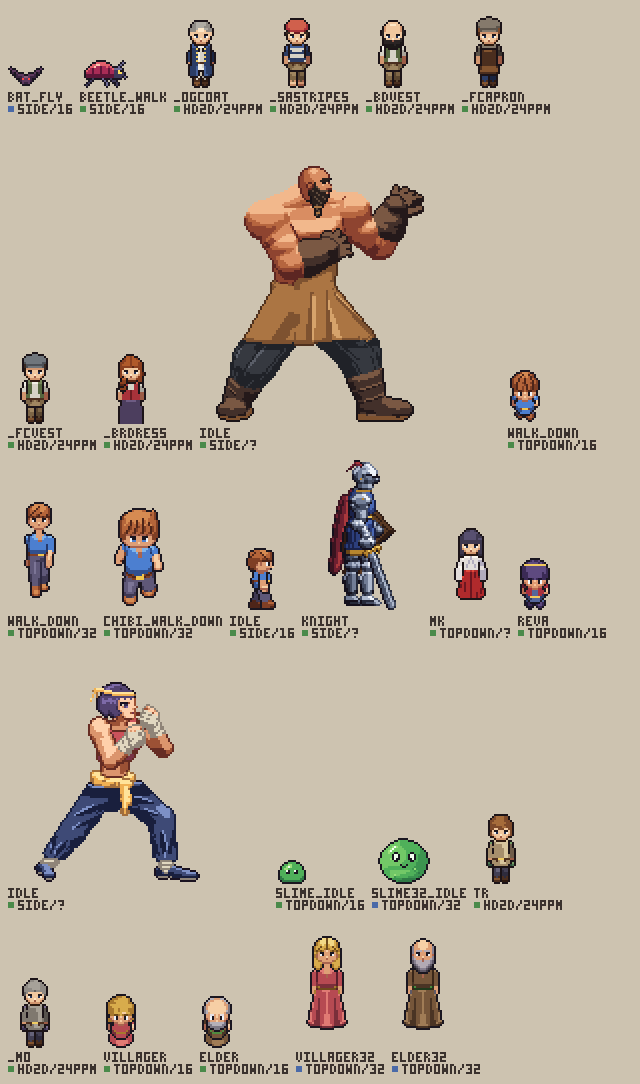
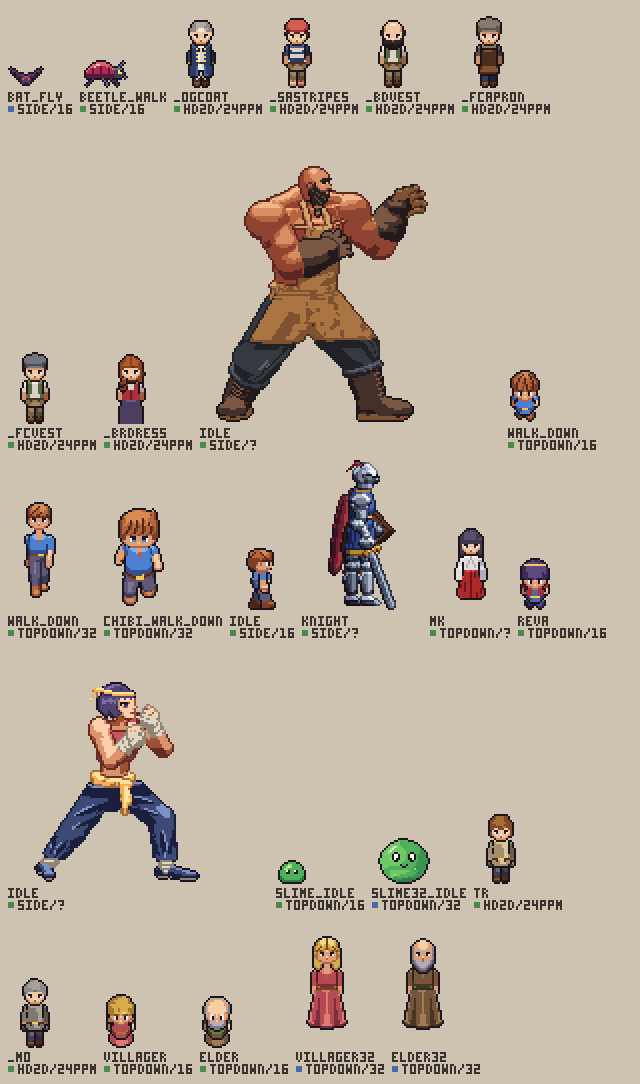
Haldor: a smith's apron, heavy trousers and laced boots, his chest and belly in volume, his far palm to us
His clothes from the 3D heavies' models, the 2D grapplers and how a smith's apron is built: a narrow bib to the
breastbone on straps round his neck, the skirt only in front and split, tied at the hip; trousers in a few big folds
that follow the weight and bloused over laced work boots. His skin cut a step up so the shadow is the widest share and
the light sits on top of each mass, the pecs, the obliques and the belly as forms on his rig. The far hand turns its
palm to us, in a raw-leather palm, with a wrist twist as a fourth number of the pose's fingers. The skin's outer line
runs all round again; only the lines inside one mass stay out.

Changed region(s): [[0.3438, 0.1522, 0.5938, 0.3653], [0.5938, 0.1522, 0.6875, 0.2131], [0.5312, 0.3349, 0.625, 0.3958]]

diff --git a/lib/characters/haldor_fighter.px.js b/lib/characters/haldor_fighter.px.js
@@ -1,23 +1,25 @@
 // Haldor the smith, fighting's heavy (lib/profiles/fighting.px.js): an original big grappler seen from the side, 140 px
 // standing and 126-130 in his guard, Reva's opponent (reva_fighter.px.js) in the same school (the library's study of the
 // heavies, section 13 of its fighting study, measured for numbers only, never their pixels): bald, a braided black
-// beard, a tan leather apron hung from his waist to above his knees (its bib up to his chest) over charcoal trousers,
-// leather gauntlets over his forearms and hands, heavy boots; bare shoulders and arms; 7.8 heads, his head the size of
+// beard, a smith's tan leather apron over his front (a narrow bib up to his breastbone on a strap round his neck, tied
+// at the waist, split up to the fork, to above his knees) over charcoal trousers bloused over laced work boots, leather
+// gauntlets over his forearms and hands; bare shoulders and arms; 7.8 heads, his head the size of
 // hers on a body 1.27 times her height, the neck hidden under the trapezius. His body built as the heavies' 3D models
 // are (13.9: a barrel trunk as deep at the belly as at the chest, the trapezius up to the jaw, deltoids 3.6 heads
 // across, thick arms and thighs), turned to the camera as the games turn a heavy, his guard and idle as big men stand
 // and breathe (13.10). Made as she is: in 3D on his rig (rig3d(), one heading), painted as Guilty Gear Xrd paints a
 // model for its one camera (each material a ramp cut where its terminator falls, his muscle by design as the heavies
 // are painted: the shadow the biggest share of the skin, a cut, a small light on top of each mass, a crease only where
-// masses part, a line between parts only at a real depth break, none on the skin's lit side), a cleanup by rule over
+// masses part, a line between parts only at a real depth break, the outer line all round; his chest's masses and
+// his clothes as the heavies' 3D models and 2D sprites build them, section 13.14), a cleanup by rule over
 // each frame; his hands modeled on his rig (fingers bent at their knuckles, an opposed thumb: the pose's `fingers`
 // give each its shape), his head drawn by hand near profile and stamped at its joint, between the body and the near arm
 // (section 13.11: the heavies' heads, hands and feet). 18 colors; a line by material, black on the beard and the boots
 // (the genre's ink). His guard a grappler's low and wide (13.12: the 2D grapplers' guards by kind): the thighs spread
 // over bent knees, the weight between the feet, the lead foot in profile at her, the rear foot turned to the camera
 // with its knee (the boots' soles flat on one row), the trunk near upright; both hands open claws ready to grab (13.13:
-// the lead at his chin a forearm ahead of his chest, the near one before his belly, the palms down and away from us,
-// the backs of the hands to the camera, the fingers spread and curled at her). Idle (8 x 150 ms: the shoulders up 6 px
+// the lead at his chin a forearm ahead of his chest, its palm turned to us and to her, the fingers at her; the near one
+// before his belly, its back to us, the palm down and away; the fingers spread and curled). Idle (8 x 150 ms: the shoulders up 6 px
 // over knees that give 1, the head sinking into them, the hands two drawings late, up, out and closing a little) facing
 // e, the game flips him for w. Each frame's hurt boxes (head, body, legs) from his joints and its data { phase }; 3 palette
 // slots (base, ash, moss: 12 keys swapped) on the sheet haldor_fighter.
@@ -69,14 +71,17 @@ const BODY = { h: F.scale.heavy[0], heads: 7.8, hip: 67, thigh: 33, shin: 28, an
 // grab (13.13: the 2D grapplers' claws), on the floor's axes ([ahead, away, up] px from each shoulder): the lead (far)
 // hand at his chin (0.87 of his guard, theirs 0.83-0.91), the near one before his belly (0.68, theirs 0.61-0.72), both a
 // forearm ahead of the body, the elbows bent and carried out from it (the near arm is drawn over the head, and stays
-// clear of the face). `fingers` each hand's shape as numbers ([curl, roll, bend], arm by arm as `hands`): HAND's curl,
-// degrees its fingers bend at their knuckles (open, the claw, half closed, a grip; the more open, the wider they fan);
-// the hand rolled round the forearm, degrees (0 its palm toward her or down and its edge to the camera, above 0 its back
-// turned to us); bent at the wrist, degrees (below 0 its fingers toward its palm). Both an open claw, the back to us as
-// the 2D grapplers draw theirs, the palm down and away (never to us: a palm to us reads "stop"), the fingers at her
+// clear of the face). `fingers` each hand's shape as numbers ([curl, roll, bend, swing], arm by arm as `hands`): HAND's
+// curl, degrees its fingers bend at their knuckles (open, the claw, half closed, a grip; the more open, the wider they
+// fan); the hand rolled round the forearm, degrees (0 its palm toward her or down and its edge to the camera, above 0
+// its back turned to us, below 0 its palm); bent at the wrist, degrees (below 0 its fingers toward its palm); swung at
+// the wrist in the palm's plane, degrees (above 0 toward its little finger). The near hand an open claw, its back to us
+// as the 2D grapplers draw theirs, the palm down and away; the far one, at his chin, its palm turned to us and a little
+// to her (rolled -70), its fingers swung 45 off his steep forearm so they point at her, 25 degrees up, and curled a
+// little less, so they part: a claw seen from its palm side, reaching (a palm to us with the fingers up reads "stop")
 const HAND = { open: 0, claw: 35, half: 55, grip: 90 }
 const STANCE = { turn: -45, twist: 20, lean: 6, down: 10, rise: 0, breath: 0, feet: [[36, 0], [-32, 10]], way: [100, 190], hands: [[28, 4, 4], [32, -2, -16]], elbow: [0.2, 1, -1],
-  fingers: [[HAND.claw, 65, -30], [HAND.claw, 60, -10]] }
+  fingers: [[HAND.claw - 10, -70, 0, 45], [HAND.claw, 60, -10]] }
 // (a pose's hands turned from the floor's axes into the shoulders' frame; its feet from the floor into the hips')
 const posed = (o) => { const q = { ...STANCE, ...o }, h = 180 + q.turn, t = (h + q.twist) * RAD
   return { ...q, head: 130 - (h + q.twist), feet: q.feet.map((f) => hipsFloor(f, q.turn)), toes: [h - q.way[0], q.way[1] - h],
@@ -90,21 +95,26 @@ const posed = (o) => { const q = { ...STANCE, ...o }, h = 180 + q.turn, t = (h +
 const BREATH = [0, 0.3, 0.7, 1, 1, 0.75, 0.4, 0.1], LAG = 2
 const idle = (i) => { const b = BREATH[i], l = BREATH[(i + 8 - LAG) % 8]
   return posed({ phase: "idle", breath: b, rise: 5 * b, down: STANCE.down - b, hands: STANCE.hands.map(([e, a, u]) => [e + 1.5 * l, a, u + 3 * l]),
-    fingers: STANCE.fingers.map(([c, r, w]) => [c + 12 * l, r, w]) }) }
+    fingers: STANCE.fingers.map(([c, ...turns]) => [c + 12 * l, ...turns]) }) }
 const MOVES = { idle: { pose: idle, ms: BREATH.map(() => 150) } }
 const W = 150, H = 150, PIV = [50, 146], PITCH = F.camera.pitch
 
 // ---------------------------------------------------------------- the tones (fighter.toonOf: Xrd's threshold)
 // His materials, each [its line, its fills dark to light, the cuts between them]: skin S s m z Z (S its crease tone,
 // only a crease reaches it; the shadow s the widest band and the light Z the narrowest, as 13.8 found the heavies'),
-// apron A a c l, gauntlets E e g, boots E e g (black line), trousers N n i, the soles a; the beard is the head's (by hand)
+// apron A a c l (its straps and ties too, and the gauntlets' palms), gauntlets E e g, boots E e g (black line),
+// trousers N n i, the soles a; the beard is the head's (by hand)
 const TONE = { skin: ["S", "SsmzZ", [0.08, 0.52, 0.68, 0.91]], apron: ["A", "acl", [0.42, 0.84]], glove: ["E", "Eeg", [0.25, 0.55]],
-  boot: ["k", "Eeg", [0.3, 0.78]], tr: ["N", "Nni", [0.4, 0.86]], sole: ["k", "a", []], strap: ["A", "a", []] }
+  boot: ["k", "Eeg", [0.3, 0.78]], tr: ["N", "Nni", [0.4, 0.86]], sole: ["k", "a", []] }
 const toon = fighter.toonOf(TONE, "S")
 // a material with its bias: the place's own, a shadow cast on it, a crease (deep), a light (shine, below 0)
 const T = (m, base, cast = 0, occ = 0, shine = 0) => toon(m, base + cast + shine, occ)
 // (each mass of skin lit on its top and in shadow under it, as the heavies' muscle is painted: what faces down a step darker)
 const U = (n) => (n[2] < -0.15 ? 0.22 : 0)
+// bare skin as the heavies' is painted (13.8, 13.14): its cuts a step up, so a plane facing ahead falls in the shadow,
+// the widest share; the light only where a form turns up to it (z), a small shine at its crown (Z), inside its edge (where
+// the form still faces the camera: the edge stays a line by material, 13.8); `bias`, `cast` and `deep` as T's
+const skin = (n, bias = 0, cast = 0, deep = 0) => T("skin", 0.2 + U(n) + bias, cast, deep, n[2] > 0.78 && n[2] * 0.17 - n[1] * 0.98 > 0.3 ? -0.4 : n[2] > 0.4 ? -0.12 : 0)
 // a table of [h, value] read at h (linear between its rows)
 const lerp = (rows, h) => { let k = 1; while (k < rows.length - 1 && h > rows[k][0]) k++
   const [h0, v0] = rows[k - 1], [h1, v1] = rows[k]; return v0 + (v1 - v0) * clamp((h - h0) / (h1 - h0)) }
@@ -123,7 +133,9 @@ const BACK = [[0, 12.5], [0.25, 11], [0.45, 11.5], [0.62, 12.5], [0.75, 13], [0.
 // the index 0.45, the ring 0.47, the little 0.33), each in three bones bent at its knuckles toward the palm by `curl`
 // degrees (the middle knuckle the most) and fanned apart, the more the more open (a claw 1.5 times a grip's 28 degrees,
 // as the 2D heavies spread theirs), 2 px thick so a px parts them; the thumb from the palm's side by the wrist, out and
-// forward, opposed (its tip 0.8 of the hand from the wrist); in the gauntlet's leather
+// forward, opposed (its tip 0.8 of the hand from the wrist); in the gauntlet's leather, its back dark, the palm side a
+// patch of the apron's lighter leather (a smith's gauntlet's palm, worn rough), its hollow in shadow (13.14: a dark
+// glove seen from its palm reads as a lump; the lighter palm round a dark hollow reads as a cupped hand)
 const handOf = (fb, curl, side = 1) => {
   const finger = (x, ln, fan) => { x *= side; fan *= side; const segs = [0.45, 0.3, 0.25].map((s) => s * ln), bend = [0.6, 1, 0.7].map((s) => s * curl * RAD)
     let p = [x, 8.2, 0.4], a = 0; const caps = []
@@ -134,69 +146,97 @@ const handOf = (fb, curl, side = 1) => {
   const t0 = [5 * side, 1.6, -1.2], t1 = add(t0, mul(unit([0.6 * side, 0.7, -0.45]), 5.4)), t2 = add(t1, mul(unit([0.15 * side, 0.9, -0.5 - curl / 120]), 4.4))
   const thumb = sdf.union(sdf.capsule(t0, t1, 1.7, 1.4), sdf.capsule(t1, t2, 1.35, 1.1), { smooth: 0.4 })
   return sdf.union(sdf.box([12, 8.6, 4.6], { round: 2 }).at(0, 4.6, 0), ...fingers, thumb, { smooth: 0.7 })
-    .paint((q, n) => T("glove", fb + 0.22 + (n[2] < -0.4 ? 0.3 : 0), 0, 0, n[2] > 0.3 ? -0.45 : 0)).part("hand") }
+    .paint((q, n) => { const palm = n[2] < -0.3, hollow = palm && Math.abs(q[0]) < 3.5 && q[1] > 2 && q[1] < 8.5
+      return palm && !hollow ? T("apron", fb + 0.3) : T("glove", fb + 0.22 + (hollow ? 0.3 : 0), 0, 0, n[2] > 0.3 ? -0.45 : 0) }).part("hand") }
 
 // the figure below the head, part by part, for a frame's joints
 const parts = (j, p = {}) => {
   const out = {}, twist = Math.atan2(dot(j.sh.f, j.r), dot(j.sh.f, j.f)), near = j.depth(j.legs[1].hip) > j.depth(j.legs[0].hip) ? 1 : 0, na = nearArm(j) === "arm1" ? 1 : 0, b = p.breath ?? 0
   const armB = j.arms.map((A) => [[A.sh, A.elbow, 8.4, 7.2], [A.elbow, A.hand, 7.6, 6.4], [A.hand, A.hand, 8, 8]])
   const legB = j.legs.map((L) => [[L.hip, L.knee, 12.5, 10.5], [L.knee, L.ankle, 10.5, 9]])
-  // the trunk: a barrel swept up his spine (SIDE, FRONT, BACK), the chest swelling 1 px on a breath; its angle round
-  // turned from the hips' way at its foot to the shoulders' at its top; the pecs a mass ahead, a crescent of shadow
-  // under them, a crease only at its deepest, short, by the middle (13.8: a crease only where masses part deep: under
-  // the pec, the armpit; the muscle by tone, each mass lit on top and in shadow under it); the belly in two columns of
-  // blocks under them, each a step darker under its lit top; the side the camera sees a mid tone, the back in shadow;
-  // the armpit a short crease where each upper arm leaves the trunk
+  // the trunk: a barrel swept up his spine (SIDE, FRONT, BACK), the chest swelling 1 px on a breath, the belly a dome low
+  // ahead of it (13.9: as far forward as the chest); its angle round turned from the hips' way at its foot to the
+  // shoulders' at its top. On it his muscle as masses, as the heavies' 3D trunks are built and read at his size (the
+  // study's 13.14): each pec a slab across the chest's top, its lower edge standing 3 px off the ribcage, so it faces
+  // down and falls in shadow over a crease, short, by the middle (13.8: a crease only where masses part deep: under the
+  // pec, the armpit); under each pec on the side the ribcage's serratus, three small bumps; the obliques' rolls over
+  // the hips, over the apron's top. Lit as the heavies are painted (13.8, 13.14): the shadow the widest share (the
+  // trunk's cuts a step up, so a plane facing ahead falls in it), a sharp cut, the light only where a mass turns up to
+  // it, a small shine at its crown; the back in shadow, the side the camera sees a step lighter; the armpit a short
+  // crease where each upper arm leaves the trunk
   const z0 = j.pelvis[2] - 2, top = j.chest[2] + 4, lean = sub(j.chest, j.pelvis), hips = [j.pelvis[0], j.pelvis[1], 0]
   const along = (h) => { const t = (z0 + h * (top - z0) - j.pelvis[2]) / lean[2]; return [lean[0] * Math.max(0, t), lean[1] * Math.max(0, t)] }
   const ahead = (h, a) => a - twist * smooth(0.25, 0.8, h)
   const R = (h, a) => { const c = Math.cos(ahead(h, a)), s = Math.sin(ahead(h, a)), side = lerp(SIDE, h), ax = c >= 0 ? lerp(FRONT, h) + b * 0.8 * smooth(0.5, 0.75, h) : lerp(BACK, h)
-    return 1 / Math.sqrt((c * c) / (ax * ax) + (s * s) / (side * side)) + 2.6 * Math.exp(-(((h - 0.8) / 0.1) ** 2)) * Math.max(0, Math.abs(c) > 0.25 ? c : 0) ** 2 }
-  const PEC = 0.7
+    return 1 / Math.sqrt((c * c) / (ax * ax) + (s * s) / (side * side)) + 2 * Math.exp(-(((h - 0.38) / 0.16) ** 2)) * Math.max(0, c) ** 2 }
   const trunk = j.sweep(hips, z0, top, R, { shift: along }), lerp3 = (a, c, t) => add(a, mul(sub(c, a), t))
-  const pits = j.arms.map((A) => [lerp3(A.sh, A.elbow, 0.2), lerp3(A.sh, A.elbow, 0.45), 8.2, 7.9])
-  const torso = trunk.field.paint((q, n) => { const [h, a] = trunk.at(q), c = ahead(h, a), ac = Math.abs(c)
-    const pec = ac < 1.2 && h > PEC - 0.05 && h < PEC + 0.02, abs = ac < 0.6 && h > 0.3 && h < PEC - 0.07 && (ac < 0.06 || band(h * 52, 5, 4.4, 0.6)), side = ac > 0.95 && ac < 2.1
-    return T("skin", U(n) + (ac > 2.4 ? 0.18 : 0) + (h < PEC ? 0.08 : 0) + (pec ? 0.4 : 0) + (abs ? 0.3 : 0), 0.4 * shadowed(q, armB.flat()), (pec && ac > 0.12 && ac < 0.45 ? 0.5 : 0) + 0.45 * nearOf(q, pits, 2),
-      (h > PEC + 0.08 && h < 0.92 && ac < 1 && n[2] > 0.15 ? -0.3 : 0) + (side ? -0.15 : 0)) })
+  // (a point on the barrel at height h, ac round from the chest's front, `o` px out, and the way out there)
+  const onBarrel = (h, ac, o = 0) => { const a = ac + twist * smooth(0.25, 0.8, h), s = along(h), d = add(mul(j.f, Math.cos(a)), mul(j.r, Math.sin(a)))
+    return [add([hips[0] + s[0], hips[1] + s[1], z0 + h * (top - z0)], mul(d, R(h, a) + o)), d] }
+  const mass = (h, ac, o, r) => { const [c, d] = onBarrel(h, ac, o); return aimed(sdf.ellipsoid(r), d, c) }
+  const PECS = [-1, 1].map((s) => mass(0.8, 0.45 * s, -2.4, [9.5, 5, 6.5]))
+  const body = sdf.union(trunk.field, ...PECS, ...[-1, 1].flatMap((s) => [mass(0.4, 1.3 * s, -2.2, [5, 3.6, 7.5]), ...[0.6, 0.655, 0.71].map((h, k) => mass(h, (1.12 + 0.04 * k) * s, -1, [2.6, 1.8, 2]))]), { smooth: 1 })
+  const pits = j.arms.map((A) => [lerp3(A.sh, A.elbow, 0.2), lerp3(A.sh, A.elbow, 0.45), 8.2, 7.9]), pecZ = onBarrel(0.8, 0)[0][2]
+  const torso = body.paint((q, n) => { const [h, a] = trunk.at(q), ac = Math.abs(ahead(h, a)), pd = Math.min(...PECS.map((P) => P.dist(q)))
+    const under = pd > 0.1 && pd < 1.4 && q[2] < pecZ - 3 && ac < 0.5
+    return skin(n, (ac > 2.4 ? 0.18 : 0) + (ac > 0.95 && ac < 2.1 ? -0.1 : 0), 0.4 * shadowed(q, armB.flat()), (under ? 0.5 : 0) + 0.45 * nearOf(q, pits, 2)) })
   // the trapezius (13.9: the heavies' rises half-way out to their chin, 10-13 px over the shoulders' joints, the neck
   // hidden in it): a wedge from round the head's foot out to each shoulder, swelling 1 px with the breath; lit on its
   // top, the back of it in shadow; one mass with the trunk (one part: no line between them)
   const neck = add(j.chest, [0, 0, 7]), back = mul(j.sh.f, -2)
-  const traps = sdf.union(sdf.ellipsoid([8, 7, 8 + b]).at(...add(neck, add(back, [0, 0, -1]))), ...j.arms.map((A) => sdf.capsule(add(neck, back), add(A.sh, [0, 0, 3.5]), 6.4 + 0.6 * b, 5.6)), { smooth: 2.5 })
-    .paint((q, n) => T("skin", U(n) + 0.1, 0.4 * shadowed(q, armB.flat()), 0, n[2] > 0.55 ? -0.3 : 0))
+  const trapF = sdf.union(sdf.ellipsoid([8, 7, 8 + b]).at(...add(neck, add(back, [0, 0, -1]))), ...j.arms.map((A) => sdf.capsule(add(neck, back), add(A.sh, [0, 0, 3.5]), 6.4 + 0.6 * b, 5.6)), { smooth: 2.5 })
+  const traps = trapF.paint((q, n) => skin(n, 0.1, 0.4 * shadowed(q, armB.flat())))
   out.torso = sdf.union(torso, traps, { smooth: 1 })
-  // the apron: leather from his waist over his thighs to above his knees (a skirt that follows each thigh's front, the
-  // near one leading, so the stance reads under it), with its bib over the barrel to under the pecs; a shell 1.4 px
-  // thick; the bib's top edge lit, its sides turning away into shadow; on each thigh two folds down from the waist
-  // (a groove a step darker, a lit ridge beside it), its hem a step darker; the arms' and the near thigh's shadows; a
-  // strap from each corner of the bib up round his neck, the ties round his waist
-  const waist = z0 + 0.25 * (top - z0), bib = z0 + (PEC - 0.04) * (top - z0), hw = 0.25
-  const BIB = j.sweep(hips, waist - 2, bib, (h, a) => R(hw + h * (PEC - 0.04 - hw), a) + 1.2, { keep: (h, a) => Math.abs(ahead(0.5, a)) < 0.9 - 0.15 * h, shell: 0.7, shift: (h) => along(hw + h * (PEC - 0.04 - hw)) })
-  // (the skirt a curtain hung from the waist to above the knees, flaring a px as it falls, the thighs pushing it out
-  // where they come forward; its hem level)
-  const hemZ = Math.max(...j.legs.map((L) => L.knee[2])) + 7
-  const SEAT = j.sweep(hips, hemZ, waist, (h, a) => R(hw, a) + 1.4 + (1 - h) * 1.2, { keep: (h, a) => Math.abs(ahead(hw, a)) < 1 - 0.1 * h, shell: 0.7, shift: () => along(hw) })
+  // the apron, a smith's (13.14, read in photographs of smiths and farriers at work): heavy leather over his front only,
+  // hung from the neck by a strap and tied round the waist. Its bib narrow (the width between the nipples), from the
+  // waist up to his breastbone between the pecs, lying 1.2 px off the body (on the pecs' inner edges and the belly's
+  // dome), its top edge lit; a strap from each top corner over the trapezius round his neck; the ties round the waist
+  // to a knot at his near hip, two ends hanging from it; the skirt split up to the fork, each half over its thigh's
+  // front to above the knee (a farrier's), so the stance reads and the trousers show behind and between them. Stiff:
+  // no fold but where the waist gathers it, two short creases across the hips; its hem a step darker (the cut edge),
+  // scorch marks a step darker on its front (the forge's sparks); the arms' shadows and the near thigh's on it
+  const waist = z0 + 0.25 * (top - z0), hw = 0.25, BIB = { top: 0.86, half: [[0.25, 0.95], [0.6, 0.62], [0.86, 0.34]] }, SPLIT = true
+  const bibZ = z0 + BIB.top * (top - z0), torsoF = sdf.union(body, trapF, { smooth: 1 })
+  const bibF = sdf.field((x, y, z) => { const q = [x, y, z], d = Math.abs(torsoF.dist(q) - 1.2) - 0.7, cap = Math.max(waist - 2 - z, z - bibZ)
+    if (cap > 0) return Math.max(d, cap)
+    const [h, a] = trunk.at(q); return Math.abs(ahead(h, a)) > lerp(BIB.half, h) ? Math.max(d, 0.3) : d }, [hips[0] - 34, hips[1] - 34, waist - 3], [hips[0] + 34, hips[1] + 34, bibZ + 1])
+  // (a curtain hung from the waist to above the knees, flaring a px as it falls, pushed out by each thigh's front where
+  // it comes forward; split: under the fork, where it spans from one thigh to the other, cut away)
+  const hemZ = Math.max(...j.legs.map((L) => L.knee[2])) + 7, forkZ = j.pelvis[2] - 6
+  const SEAT0 = j.sweep(hips, hemZ, waist, (h, a) => R(hw, a) + 1.4 + (1 - h) * 1.2, { keep: (h, a) => Math.abs(ahead(hw, a)) < 0.6 - 0.1 * h, shell: 0.7, shift: () => along(hw) })
+  const SEAT = { field: SPLIT ? SEAT0.field.subtract(sdf.plane([0, 0, 1], forkZ).subtract(...j.legs.map((L) => sdf.capsule(L.hip, L.knee, 16.5, 13.5)))) : SEAT0.field }
   const thighs = j.legs.map((L) => { const u = unit(sub(L.knee, L.hip)), f = unit(sub(j.f, mul(u, dot(j.f, u))))
-    return sdf.capsule(L.hip, L.knee, 14.4, 11.4).subtract(sdf.capsule(L.hip, L.knee, 13, 10)).intersect(sdf.plane(mul(f, -1), -dot(f, L.hip) + 3), sdf.plane([0, 0, -1], -hemZ)) })
+    return sdf.capsule(L.hip, L.knee, 14.4, 11.4).subtract(sdf.capsule(L.hip, L.knee, 13, 10)).intersect(sdf.plane(mul(f, -1), -dot(f, L.hip) - 1), sdf.plane([0, 0, -1], -hemZ)) })
   const skirt = sdf.union(SEAT.field, ...thighs, { smooth: 1.6 }), hem = (q) => q[2] - hemZ
-  out.apron = sdf.union(BIB.field, skirt, { smooth: 1 }).paint((q, n) => { const lg = j.legs.map((L) => capD(q, [L.hip, L.knee, 14.4, 11.4]) < 1.2), on = lg[1 - near] ? 1 - near : lg[near] ? near : -1
-    const v = sub(q, j.pelvis), ang = Math.atan2(dot(v, j.r), dot(v, j.f)), drop = clamp((waist - q[2]) / (waist - hemZ)), at = (f) => f * (1 + 0.3 * drop), w = 0.035 + 0.06 * drop
-    const groove = q[2] < waist - 2 && [-0.6, -0.1, 0.45].some((f) => Math.abs(ang - at(f)) < w), ridge = q[2] < waist - 4 && [-0.6, -0.1, 0.45].some((f) => Math.abs(ang - at(f) + w + 0.05) < 0.045)
-    const far = on >= 0 && on !== near ? 0.1 : 0, edge = hem(q) < 1.4 ? 0.3 : 0, turn = Math.abs(ahead(hw, ang)) > 0.8 ? 0.22 : 0
-    const shade = 0.4 * shadowed(q, armB.flat()) + 0.3 * shadowed(q, [legB[near][0]], 8)
-    return T("apron", far + edge + turn + (groove ? 0.4 : 0), shade, 0, (q[2] > bib - 1.6 && n[2] > -0.2) || ridge ? -0.32 : 0) })
-  const corner = (s) => add([j.pelvis[0], j.pelvis[1], bib], add(along(PEC - 0.04).concat(0), add(mul(j.sh.r, 10 * s), mul(j.sh.f, 13))))
-  out.straps = j.arms.map((A, i) => { const s = i ? 1 : -1; return sdf.capsule(corner(s), add(neck, mul(j.sh.r, 6 * s)), 1.1).paint(() => T("strap", 0)) })
-  out.ties = j.sweep(hips, waist - 1.2, waist + 1.2, (h, a) => R(hw, a) + 1, { keep: (h, a) => Math.abs(ahead(hw, a)) > 1.15, shift: () => along(hw) }).field.paint(() => T("strap", 0))
-  // the trousers: each leg a thick thigh and calf (13.9: the heavies' 20-25 px round) and a shin, the seat round his hips, into
-  // the boots below the knee; the side away and the inner thigh in shadow, the apron's hem's shadow under it, the near
-  // leg's on the far; two long folds down each, a lit ridge beside each
-  const legs = j.legs.map((L, i) => { const far = i !== near, lb = far ? 0.08 : 0, inner = mul(j.r, i ? -1 : 1), bootTop = add(L.ankle, mul(unit(sub(L.knee, L.ankle)), 15))
-    const sh = (q) => (hem(q) > -4 && hem(q) < 0 ? 0.3 : 0) + (far ? 0.3 * shadowed(q, legB[near], 10) : 0)
-    const paint = (t, a, q) => T("tr", lb + (Math.abs(a) > 2.2 ? 0.22 : a > 1 ? 0.14 : 0) + (band(a * 7 + t * 2, 6.3, 1.2, 0.45) ? 0.4 : band(a * 7 + t * 2, 6.3, 2.1, 0.4) ? -0.3 : 0), sh(q))
+  out.apron = sdf.union(bibF, skirt, { smooth: 1 }).paint((q, n) => { const lg = j.legs.map((L) => capD(q, [L.hip, L.knee, 14.4, 11.4]) < 1.2), on = lg[1 - near] ? 1 - near : lg[near] ? near : -1
+    const v = sub(q, j.pelvis), ang = Math.atan2(dot(v, j.r), dot(v, j.f)), front = Math.abs(ahead(hw, ang)) < 0.8
+    const far = on >= 0 && on !== near ? 0.1 : 0, edge = hem(q) < 1.4 ? 0.3 : 0, turn = front ? 0 : 0.22, gathered = v[2] < waist - j.pelvis[2] - 1 && v[2] > waist - j.pelvis[2] - 6 && band(v[2], 2.4, 0.6, 0.5)
+    const scorch = front && sdf.fbm(v[0] / 3.5, v[1] / 3.5, v[2] / 3.5, 7, 2) > 0.68, shade = 0.4 * shadowed(q, armB.flat()) + 0.3 * shadowed(q, [legB[near][0]], 8)
+    return T("apron", far + edge + turn + (gathered ? 0.4 : 0) + (scorch ? 0.3 : 0), shade, 0, q[2] > bibZ - 1.6 && n[2] > -0.2 ? -0.32 : 0) })
+  // (a point lying `o` px off the trunk and the trapezius, out from the spine at h and ac: the strap's way over them)
+  const onBody = (h, ac, o) => { const [c, d] = onBarrel(h, ac, -6); let lo = 0, hi = 20
+    for (let k = 0; k < 14; k++) { const m = (lo + hi) / 2; if (torsoF.dist(add(c, mul(d, m))) < o) lo = m; else hi = m }
+    return add(c, mul(d, lo)) }
+  const cam = Math.atan2(-j.r[1], -j.f[1]) > 0 ? 1 : -1, strapPaint = (q, n) => T("apron", 0.1, 0.4 * shadowed(q, armB.flat()), 0, n[2] > 0.4 ? -0.3 : 0)
+  out.straps = [-1, 1].map((s) => { const half = lerp(BIB.half, BIB.top), ps = [onBody(BIB.top - 0.02, (half - 0.06) * s, 1.6), onBody(0.95, (half + 0.05) * s, 1.4), onBody(1.04, (half + 0.25) * s, 1.4), add(neck, add(mul(j.sh.f, -7), [0, 0, 3]))]
+    return sdf.union(...ps.slice(1).map((q, k) => sdf.capsule(ps[k], q, 1.1)), { smooth: 0.6 }).paint(strapPaint) })
+  const knot = onBarrel(0.25, 1.75 * cam, 2)[0]
+  out.ties = sdf.union(j.sweep(hips, waist - 1.2, waist + 1.2, (h, a) => R(hw, a) + 1, { keep: (h, a) => Math.abs(ahead(hw, a)) > 1.15, shift: () => along(hw) }).field,
+    sdf.ellipsoid([2.2, 2, 1.8]).at(...knot), sdf.capsule(knot, add(knot, [1.5, 0, -8]), 1, 0.8), sdf.capsule(knot, add(knot, [-1.5, 0, -6.5]), 1, 0.8), { smooth: 0.5 }).paint(strapPaint)
+  // the trousers, heavy cloth (13.14: few, big folds that follow the weight): each leg a thick thigh and calf (13.9: the
+  // heavies' 20-25 px round) and a shin, the seat round his hips, tucked into the boots and bloused over their tops in a
+  // roll (lit on its top, in shadow under it, a line where it stands off the boot); the side away and the inner thigh
+  // in shadow, the apron's hem's shadow under it, the near leg's on the far; on each thigh two pull folds from the fork
+  // round to the knee's front, each a crease with its ridge lit above it; behind the bent knee two short creases across,
+  // where the cloth bunches
+  const SHAFT = 19, fold = (d) => (Math.abs(d) < 0.13 ? 0.4 : d < -0.13 && d > -0.36 ? -0.3 : 0)
+  const legs = j.legs.map((L, i) => { const far = i !== near, lb = far ? 0.08 : 0, inner = mul(j.r, i ? -1 : 1), up = unit(sub(L.knee, L.ankle)), at = (z) => add(L.ankle, mul(up, z))
+    const sh = (q) => (hem(q) > -4 && hem(q) < 0 ? 0.3 : 0) + (far ? 0.3 * shadowed(q, legB[near], 10) : 0), away = (a) => (Math.abs(a) > 2.2 ? 0.22 : a > 1 ? 0.14 : 0)
+    const thighP = (t, a, q) => T("tr", lb + away(a) + (fold(a - (1.3 - 1.1 * t)) || fold(a - (0.6 - 0.75 * t))) + (t > 0.8 && Math.abs(a) > 2.3 && band(t * 33, 3.2, 1.6, 0.5) ? 0.4 : 0), sh(q))
+    const shinP = (t, a, q, n, Ln) => T("tr", lb + away(a) + (t * Ln < 4 && Math.abs(a) > 2.3 && band(t * Ln, 3.2, 1, 0.5) ? 0.4 : 0), sh(q))
+    const roll = aimed(sdf.ellipsoid([9.9, 2.8, 9.9]), up, at(SHAFT - 0.5)).paint((q, n) => T("tr", lb + U(n), sh(q), 0, n[2] > 0.45 ? -0.3 : 0))
     const seat = far ? [sdf.ellipsoid([14, 13, 11]).at(j.pelvis[0], j.pelvis[1], j.pelvis[2] - 3).paint((q) => T("tr", 0.1, sh(q), nearOf(q, legB[near], 3) * 0.45))] : []
-    return sdf.union(bone(L.hip, L.knee, 12.5, 10.5, j.f, inner, paint), bone(L.knee, bootTop, 10.5, 8.2, j.f, inner, paint), ...seat, { smooth: 2 }).intersect(sdf.plane([0, 0, 1], waist)) })
+    return sdf.union(sdf.union(bone(L.hip, L.knee, 12.5, 10.5, j.f, inner, thighP), bone(L.knee, at(SHAFT), 10.5, 8.2, j.f, inner, shinP), ...seat, { smooth: 2 }), roll, { smooth: 0.6 }).intersect(sdf.plane([0, 0, 1], waist)) })
   out.legFar = legs[1 - near]; out.legNear = legs[near]
   // the boots, as the heavies' are built (the study's 13.11: the foot 0.18-0.22 of the height with its boot, the ankle a
   // quarter of the foot over the sole and from the heel; over the sole the heel's counter 0.35 of the foot, the instep
@@ -206,16 +246,19 @@ const parts = (j, p = {}) => {
   // sole's tone flat on the floor, the toe rising off it, the toe cap and the instep's top lit; the toe box round and
   // as wide as the ball (0.52 of the foot, the heavies' 0.48-0.55), wider than the ankle, so a boot turned to the
   // camera still reads as one (13.13: a round toe lit on top over a sole line, as the low grapplers' front feet are
-  // drawn); a shaft round the shin from the ankle (narrower than the foot) to 15 px up, a little wider than the trouser
-  // it takes in, two straps round it (a groove, its top lit) and its rim lit; black-lined, mostly dark
+  // drawn). A work boot laced up its front (13.14: the 2D heavies' boots laced or strapped, their shaft to 1.4-2.1 heads
+  // over the sole; SF6's wrestler's to 0.84 of the knee's height): the shaft round the shin from the ankle to 19 px up
+  // (26 over the sole, 1.45 heads, 0.75 of the knee's height), narrow at the ankle, as wide as the calf at its top,
+  // the trousers' roll over it; the laces a column of lit crossings every 2.6 px up its front and over the instep;
+  // black-lined, mostly dark (leather in 3D folds less than 0.08 heads: at his size, its seams, laces and edges)
   out.boots = j.legs.map((L, i) => { const fb = i !== near ? 0.08 : 0, up = unit(sub(L.knee, L.ankle)), at = (z) => add(L.ankle, mul(up, z))
-    const f = [Math.sin(L.heading * RAD), Math.cos(L.heading * RAD), 0], o = [L.ankle[0], L.ankle[1], L.ball[2]], ahead = (q) => dot(sub(q, o), f)
-    const shaft = sdf.capsule(at(0), at(15), 6.2, 8.6).paint((q, n) => { const z = dot(sub(q, L.ankle), up)
-      return T("boot", fb + (z > 13.6 || band(z, 6, 3.4, 0.5) ? -0.4 : band(z, 6, 2.6, 0.45) ? 0.35 : 0), 0, 0, n[2] > 0.5 ? -0.3 : 0) })
+    const f = [Math.sin(L.heading * RAD), Math.cos(L.heading * RAD), 0], o = [L.ankle[0], L.ankle[1], L.ball[2]], ahead = (q) => dot(sub(q, o), f), side = [f[1], -f[0], 0]
+    const shaft = sdf.capsule(at(0), at(SHAFT), 6.2, 8.4).paint((q, n) => { const z = dot(sub(q, L.ankle), up), w = unit(sub(q, at(z)))
+      return T("boot", fb + (dot(w, f) > 0.72 ? (band(z, 2.6, 1.3, 0.55) ? -0.45 : 0.2) : 0), 0, 0, n[2] > 0.5 ? -0.3 : 0) })
     const foot = aimed(sdf.union(sdf.ellipsoid([5.4, 4.6, 5]).at(0, -2.4, 4.6), sdf.capsule([0, -1.5, 6.5], [0, 10, 3.2], 6, 5.2), sdf.ellipsoid([7, 6.8, 4.4]).at(0, 12.8, 3.8), sdf.box([13.6, 18, 3.2], { round: 1.6 }).at(0, 2.2, 0), { smooth: 1.6 })
-      .intersect(sdf.plane([0, 0, -1], 0)), f, o).paint((q, n) => { const h = q[2] - o[2], y = ahead(q)
+      .intersect(sdf.plane([0, 0, -1], 0)), f, o).paint((q, n) => { const h = q[2] - o[2], y = ahead(q), lace = n[2] > 0.4 && y > -1 && y < 7 && Math.abs(dot(sub(q, o), side)) < 2.2
         if (h < 1.5 || (h < 2.2 && y < -2.5)) return T("sole", fb)
-        return T("boot", fb + 0.1, 0, 0, n[2] > 0.55 && y > -1 ? -0.45 : 0) })
+        return T("boot", fb + 0.1 + (lace ? (band(y, 2.6, 1.3, 0.55) ? -0.2 : 0.3) : 0), 0, 0, n[2] > 0.55 && y > -1 ? -0.45 : 0) })
     return sdf.union(shaft, foot, { smooth: 1.2 }) })
   // the arms (13.9: the heavies' deltoids 3.4-3.9 heads across, the upper arm 15-18 px round, the forearm 11-16): the
   // deltoid a ball over the shoulder (a light on its top), parted from the biceps by a short crease on its outside; the
@@ -225,14 +268,14 @@ const parts = (j, p = {}) => {
   j.arms.forEach((A, i) => {
     const far = i !== na, fb = far ? 0.12 : 0, inner = mul(j.sh.r, i ? -1 : 1), fd = sub(A.hand, A.elbow)
     const ud = unit(sub(A.elbow, A.sh)), out_ = mul(j.sh.r, i ? 1 : -1)
-    const delt = sdf.ellipsoid([10, 10, 9.4]).at(...add(add(A.sh, mul(ud, 2.6)), add(mul(out_, 2.4), [0, 0, 1.6]))).paint((q, n) => T("skin", U(n) + fb + (n[2] < -0.3 ? 0.12 : 0), 0, 0, n[2] > 0.5 ? -0.3 : 0))
-    const upper = bone(A.sh, A.elbow, 8.4, 7.2, j.sh.f, inner, (t, a, q, n) => T("skin", U(n) + fb + (Math.abs(a) > 2.1 ? 0.14 : 0), 0, (t > 0.42 && t < 0.54 && a < -0.6 && a > -1.5 ? 0.42 : 0) + (t > 0.85 && a > 0.3 ? 0.42 : 0), n[2] > 0.55 && t > 0.5 && t < 0.85 ? -0.25 : 0))
-    const bic = sdf.ellipsoid([6.6, 7.6, 6.2]).at(...add(add(A.sh, mul(ud, 15)), mul(j.sh.f, 2))).paint((q, n) => T("skin", U(n) + fb, 0, 0, n[2] > 0.55 ? -0.25 : 0))
-    const cuff = 0.4, fore = bone(A.elbow, add(A.hand, mul(unit(fd), -4.5)), 7.6, 6.2, j.sh.f, inner, (t, a, q, n, L) => t < cuff ? T("skin", U(n) + fb + (Math.abs(a) > 2 ? 0.14 : 0), 0, t < 0.14 && a > 0.3 ? 0.42 : 0, n[2] > 0.6 ? -0.2 : 0)
+    const delt = sdf.ellipsoid([10, 10, 9.4]).at(...add(add(A.sh, mul(ud, 2.6)), add(mul(out_, 2.4), [0, 0, 1.6]))).paint((q, n) => skin(n, fb + (n[2] < -0.3 ? 0.12 : 0)))
+    const upper = bone(A.sh, A.elbow, 8.4, 7.2, j.sh.f, inner, (t, a, q, n) => skin(n, fb + (Math.abs(a) > 2.1 ? 0.14 : 0), 0, (t > 0.42 && t < 0.54 && a < -0.6 && a > -1.5 ? 0.42 : 0) + (t > 0.85 && a > 0.3 ? 0.42 : 0)))
+    const bic = sdf.ellipsoid([6.6, 7.6, 6.2]).at(...add(add(A.sh, mul(ud, 15)), mul(j.sh.f, 2))).paint((q, n) => skin(n, fb))
+    const cuff = 0.4, fore = bone(A.elbow, add(A.hand, mul(unit(fd), -4.5)), 7.6, 6.2, j.sh.f, inner, (t, a, q, n, L) => t < cuff ? skin(n, fb + (Math.abs(a) > 2 ? 0.14 : 0), 0, t < 0.14 && a > 0.3 ? 0.42 : 0)
       : T("glove", fb + 0.22 + (n[2] < -0.4 ? 0.3 : 0) + (band(t * L, 5, 3.6, 0.55) ? 0.4 : 0), 0, 0, n[2] > 0.3 ? -0.45 : 0))
     const flare = sdf.capsule(add(A.elbow, mul(fd, cuff - 0.02)), add(A.elbow, mul(fd, cuff + 0.1)), 8.6, 8).paint((q, n) => T("glove", fb + 0.22, 0, 0, n[2] > 0.2 ? -0.45 : 0))
-    const [curl, palm, bend = 0] = (p.fingers ?? STANCE.fingers)[i], wrist = add(A.hand, mul(unit(fd), -4.5)), cocked = unit(add(unit(fd), [0, 0, 0.22]))
-    out[`arm${i}`] = sdf.union(upper, delt, bic, fore, flare, aimed(handOf(fb, curl, i ? -1 : 1).rotate(bend, "x").rotate(palm, "y"), cocked, wrist), { smooth: 1 })
+    const [curl, palm, bend = 0, swing = 0] = (p.fingers ?? STANCE.fingers)[i], wrist = add(A.hand, mul(unit(fd), -4.5)), cocked = unit(add(unit(fd), [0, 0, 0.22]))
+    out[`arm${i}`] = sdf.union(upper, delt, bic, fore, flare, aimed(handOf(fb, curl, i ? -1 : 1).rotate(swing, "z").rotate(bend, "x").rotate(palm, "y"), cocked, wrist), { smooth: 1 })
   })
   return out
 }
@@ -242,13 +285,12 @@ const parts = (j, p = {}) => {
 // - over the frame as composed (each pixel's part carried by the stamps), the skin's line where 13.8 puts none:
 //   "one mass": where the trunk and an arm meet over the shoulder (the deltoid's top on the trapezius: within 14 px of
 //   the joint, no lower than it), the line between them takes the arm's fill beside it; a line between parts stays only
-//   at a real depth break (the chest before the far arm, the near arm before the pec and the belly);
-//   "lit side": the skin's outer line where the skin inside it is lit takes that light tone (the line on bare skin only
-//   on its shadow side, as selout: a fifth of the heavies' edge); the head, drawn by hand, keeps its own
+//   at a real depth break (the chest before the far arm, the near arm before the pec and the belly); the outer line
+//   stays all round (the user: lost on the lit side it read as the outline gone); the head, drawn by hand, keeps its own
 const LINES = "kSAEN", tidy = (c) => fighter.clean(c, LINES)
 const mend = (c, j, head) => { const { w, h } = c.img, D = c.img.data, P = c.img.parts
   if (!P) return
-  const S = c.color("S"), fill = new Set([..."smzZ"].map((k) => c.color(k))), lit = new Set([..."mzZ"].map((k) => c.color(k)))
+  const S = c.color("S"), fill = new Set([..."smzZ"].map((k) => c.color(k)))
   const part = (i) => (P.ids[i] >= 0 ? P.names[P.ids[i]].split(".")[0] : ""), clear = (i) => (D[i] & 255) < 128
   // (the head, drawn by hand, keeps its own: [x0, y0, x1, y1] where it was stamped)
   const own = (i) => { const x = i % w, y = (i - x) / w; return part(i) || !(x >= head[0] && x < head[2] && y >= head[1] && y < head[3]) }
@@ -260,16 +302,7 @@ const mend = (c, j, head) => { const { w, h } = c.img, D = c.img.data, P = c.img
   pass((i, x, y, nb) => { const skin = nb.filter((k) => fill.has(D[k]) && part(k))
     if (nb.some(clear) || !sh.some(([sx, sy]) => Math.hypot(x - sx, y - sy) < 14 && y < sy + 2) || new Set(skin.map(part)).size < 2) return
     return D[skin.find((k) => part(k).startsWith("arm")) ?? skin[0]] })
-  // the lit side: on the edge, the light tone inside it; then what that leaves of the line, a speck (3 px at most)
-  // with nothing darker than a light tone beside it, the same
-  pass((i, x, y, nb) => (nb.some(clear) ? D[nb.find((k) => lit.has(D[k]) && own(k))] : undefined))
-  const seen = new Uint8Array(w * h)
-  for (let i0 = w; i0 < w * (h - 1); i0++) { if (seen[i0] || D[i0] !== S || !own(i0)) continue
-    const blob = [i0], around = new Set(); seen[i0] = 1
-    for (let q = 0; q < blob.length; q++) { const i = blob[q]
-      for (const k of [i - 1, i + 1, i - w, i + w, i - w - 1, i - w + 1, i + w - 1, i + w + 1]) if (D[k] === S) { if (!seen[k]) { seen[k] = 1; blob.push(k) } } else if ([i - 1, i + 1, i - w, i + w].includes(k)) around.add(k) }
-    const o = [...around], l = o.find((k) => lit.has(D[k]) && own(k))
-    if (blob.length <= 3 && l !== undefined && o.every((k) => clear(k) || lit.has(D[k]))) for (const i of blob) D[i] = D[l] } }
+}
 
 // ---------------------------------------------------------------- his body in 3D, in two
 // Each sole on the floor; the head drawn by hand, so the body is drawn in two: all of it but the near arm (cleaned),
@@ -342,7 +375,7 @@ for (const [m, M] of Object.entries(MOVES))
     c.stamp(`_hf_arm_${m}_s`, ...PIV, { frame: i })
     mend(c, j, [hx - 8, hy - 8, hx + 9, hy + 18]); pinholes(c); boxes(c, p) }, ...M.ms.map((ms) => frame({ ms })))
 sheet("haldor_fighter", Object.keys(MOVES), { rows: "tag", pad: 2, slots: SLOTS })
-card("idle", { is: "Haldor the smith, a heavy grappler 140 px standing (126-130 in his guard), side view in KOF 2002's school, Reva's opponent, in 3D on his rig with his head drawn by hand and his hands modeled (their shape a pose's fingers): bald, a braided black beard, a tan leather apron to above his knees over charcoal trousers, leather gauntlets, heavy boots; a grappler's low, wide guard, the rear foot turned to the camera with its knee, the hands open claws ready to grab (the palms down, the backs to the camera); idle facing e, hurt boxes and frame data from his joints", cells: { "side/?": "✓" }, category: "heavy",
+card("idle", { is: "Haldor the smith, a heavy grappler 140 px standing (126-130 in his guard), side view in KOF 2002's school, Reva's opponent, in 3D on his rig with his head drawn by hand and his hands modeled (their shape a pose's fingers): bald, a braided black beard, a smith's tan leather apron (a bib on a neck strap, tied at the waist, split, to above his knees) over charcoal trousers bloused over laced work boots, leather gauntlets; a grappler's low, wide guard, the rear foot turned to the camera with its knee, the hands open claws ready to grab (the far palm turned to us, the near hand's back); idle facing e, hurt boxes and frame data from his joints", cells: { "side/?": "✓" }, category: "heavy",
   vary: { color: "3 palette slots on the sheet haldor_fighter (base, ash, moss: beard, apron, gauntlets and boots, trousers): haldorFighter.SLOTS", part: "his moves: idle facing e (the game flips him for w), on the sheet haldor_fighter; its blocks _hf_bk_idle_s" } })
 Object.assign(haldorFighter, { SLOTS, MOVES, HAND, rig: RIG })
 }

diff --git a/docs/fork-differences.md b/docs/fork-differences.md
@@ -1,7 +1,7 @@
 # Fork differences
 
 This fork, [augusto-scarvalho/claude-pxl](https://github.com/augusto-scarvalho/claude-pxl), is
-**526 commits ahead** of the original, [crsolver/claude-pxl](https://github.com/crsolver/claude-pxl),
+**527 commits ahead** of the original, [crsolver/claude-pxl](https://github.com/crsolver/claude-pxl),
 and none behind. The work spans October 16–27, 2026. Everything the original does still works; this
 page lists what the fork adds. Every commit is in
 [the comparison on GitHub](https://github.com/crsolver/claude-pxl/compare/main...augusto-scarvalho:claude-pxl:main).
